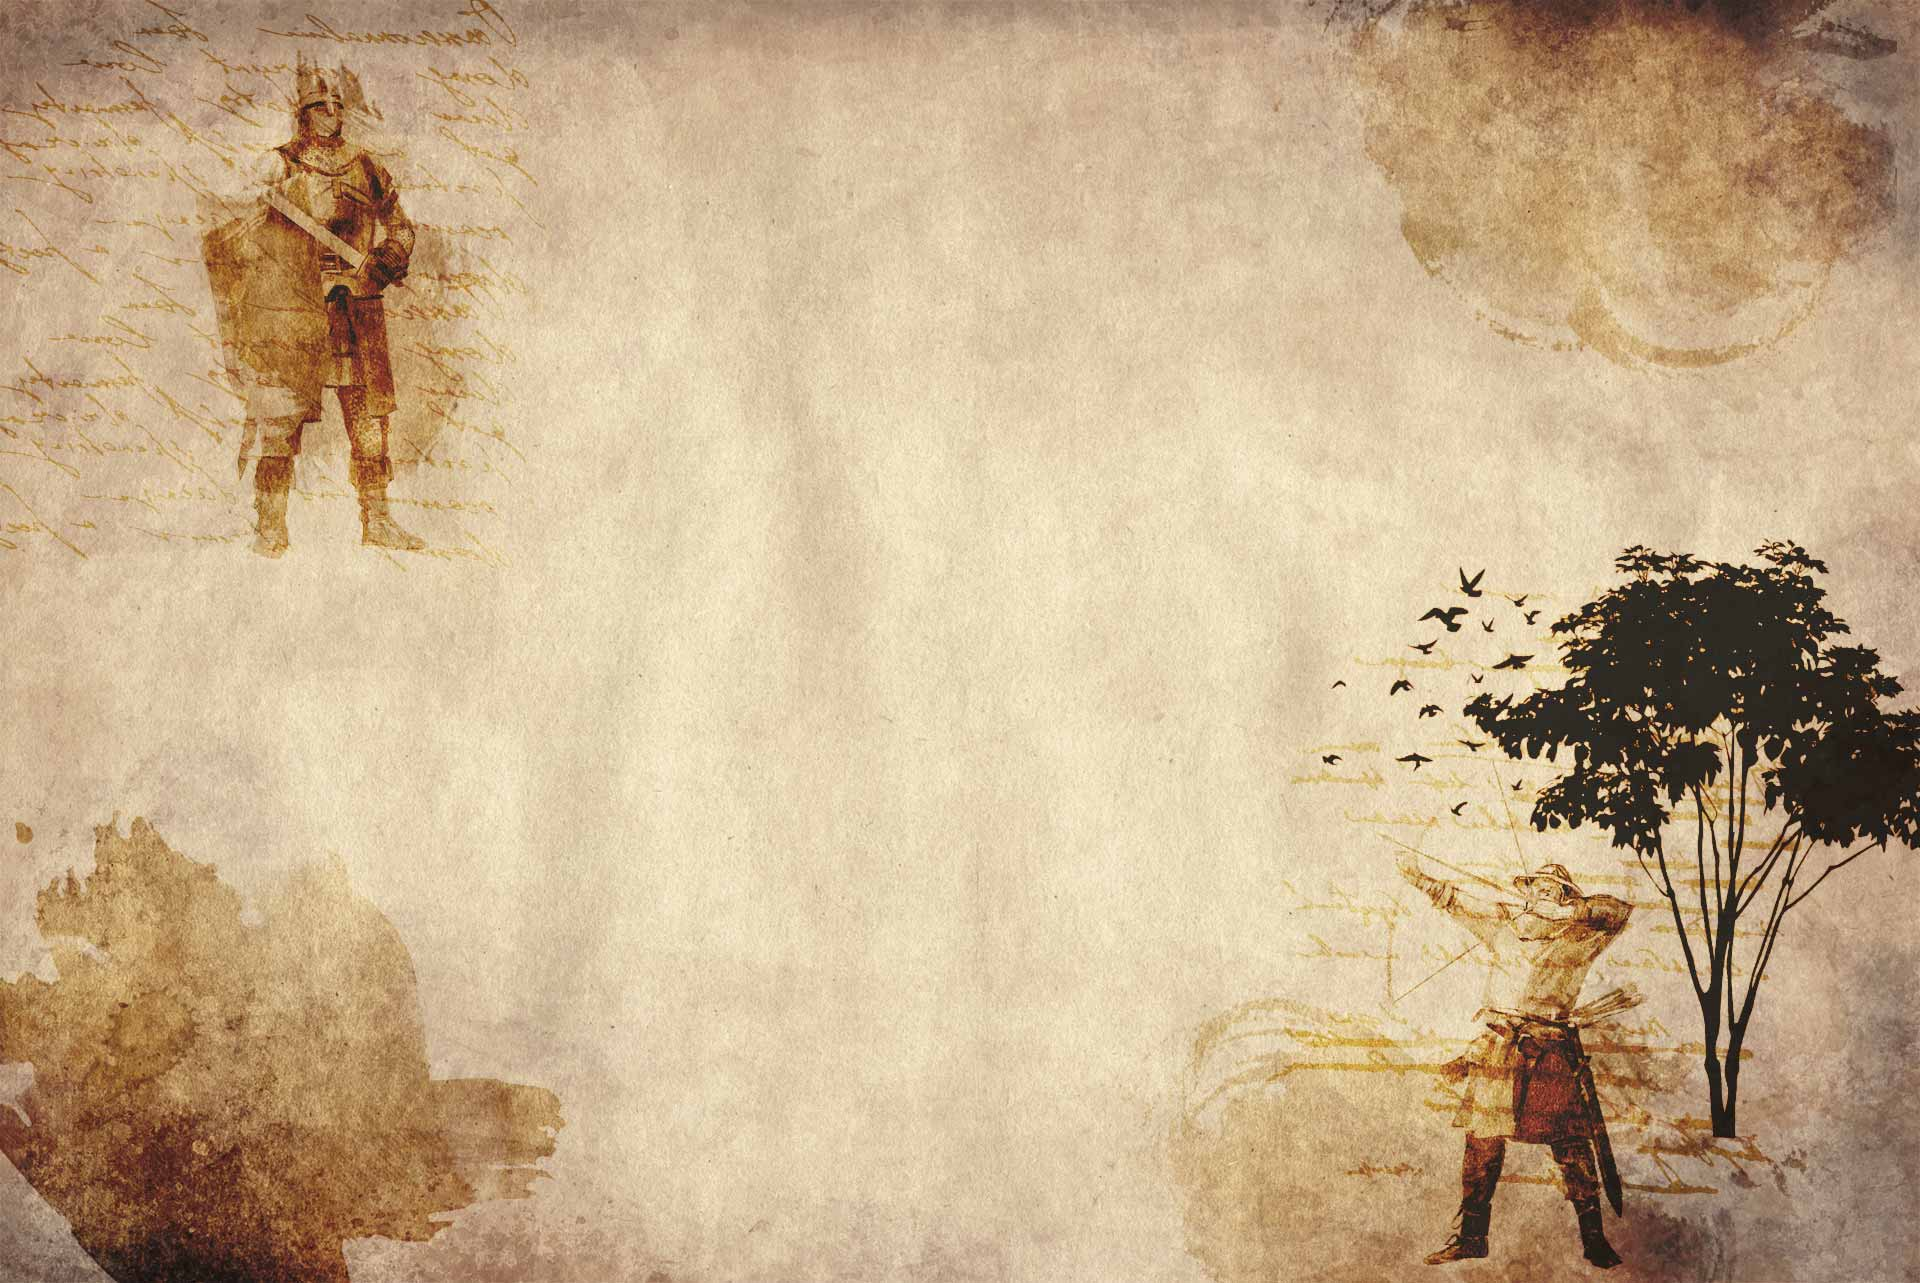
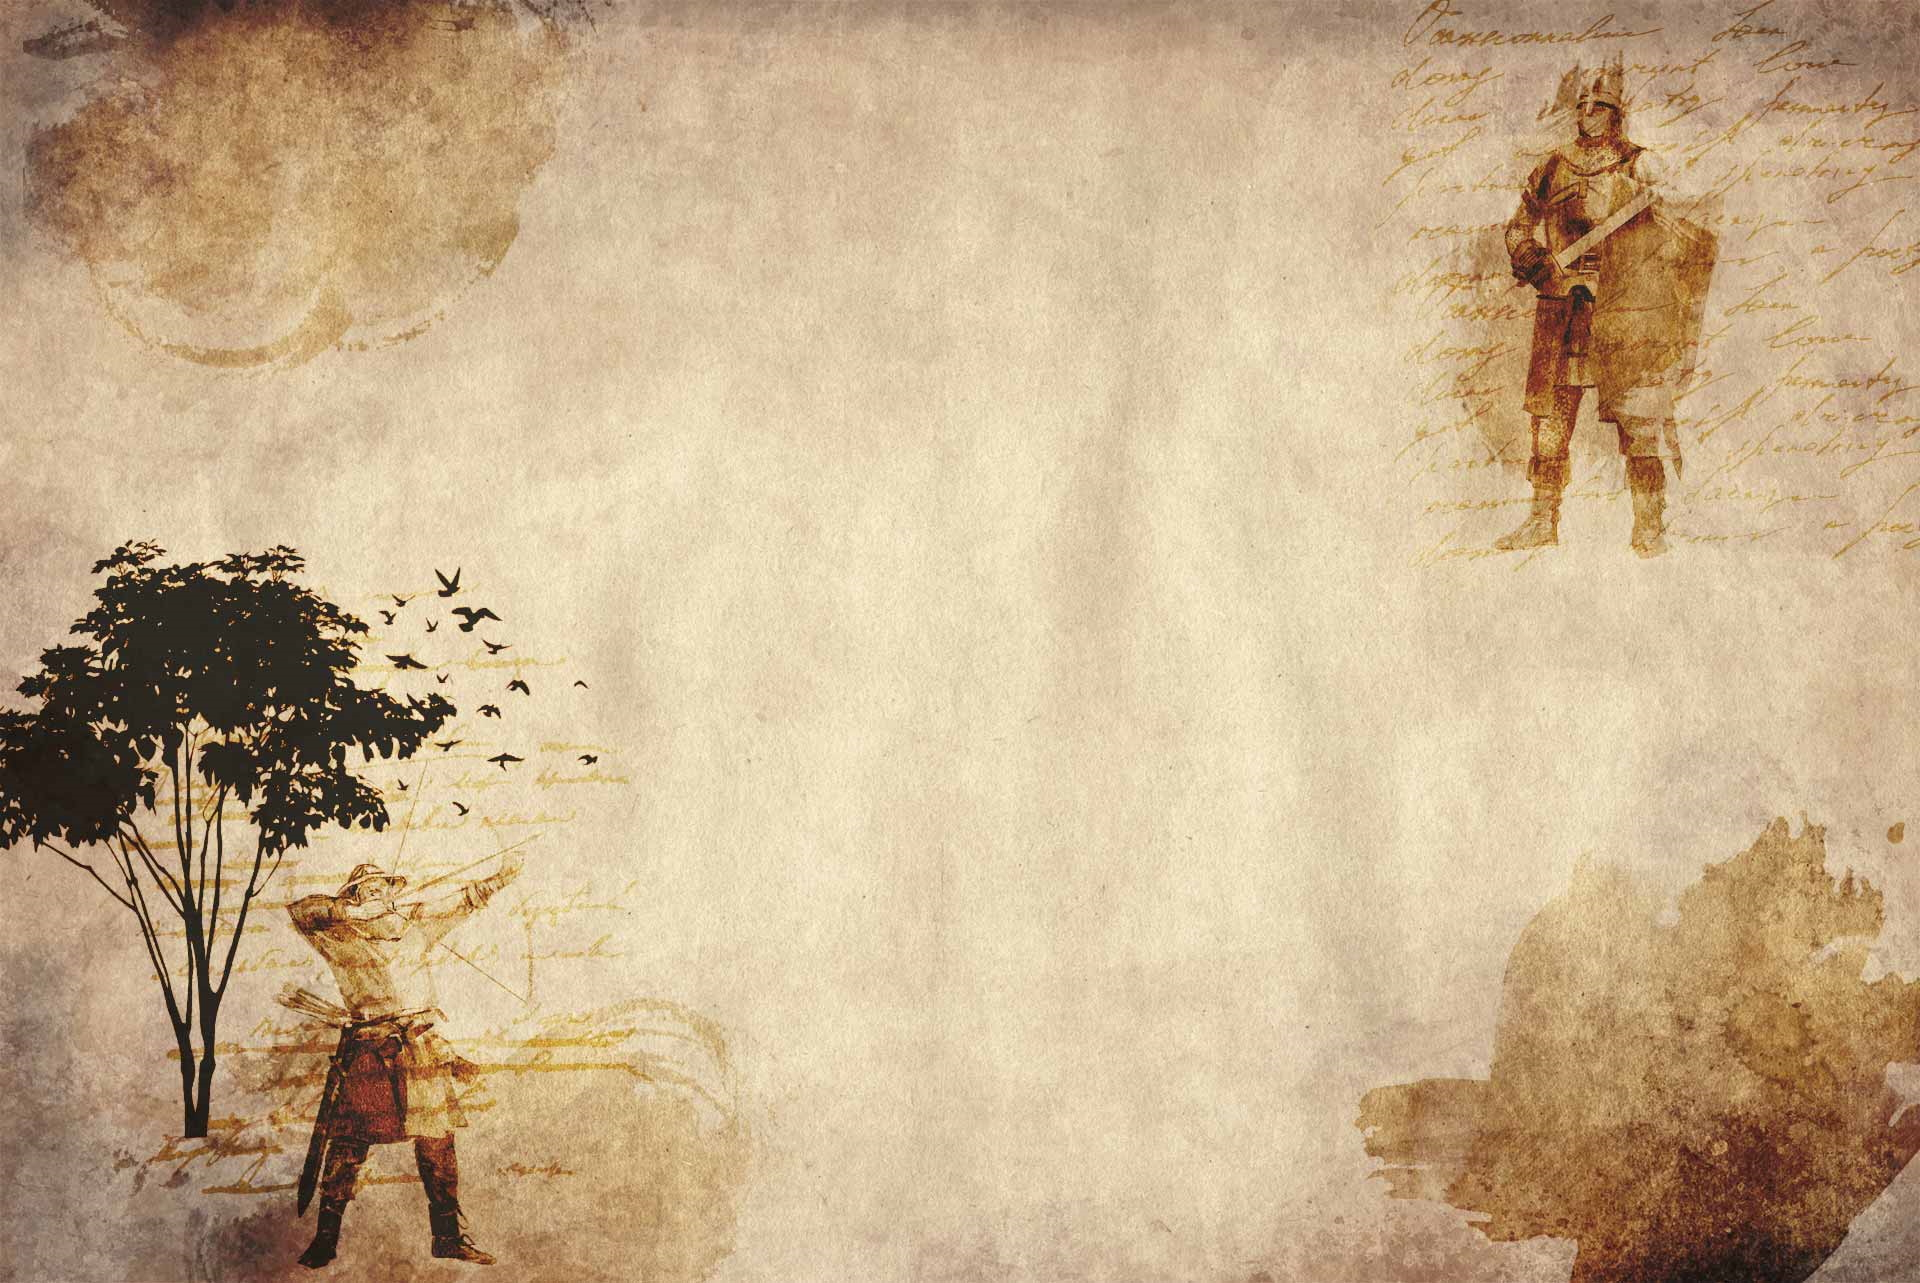
fix: ajuste imagem bg geral

diff --git a/public/css/tw.css b/public/css/tw.css
@@ -10,8 +10,11 @@
 }
 
 body {
-    background-image: url( "/assets/graphic/background/body.jpg" );
-    background-repeat: repeat;
+    background-image: url( "/assets/graphic/background/bg-image.jpg" );
+    background-size: cover;
+    background-repeat: no-repeat;
+    background-position: top center;
+    background-attachment: fixed;
 }
 
 .cursor-none {
